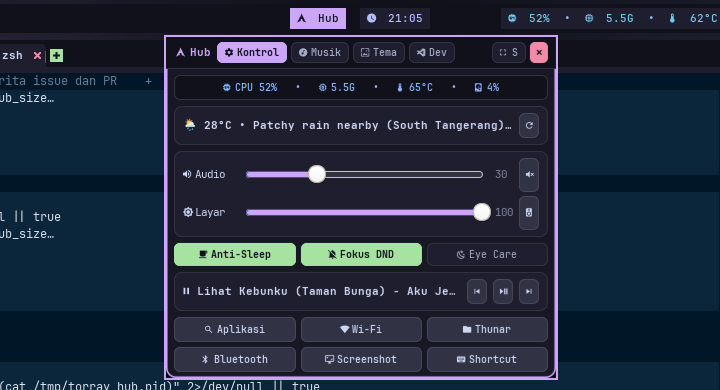
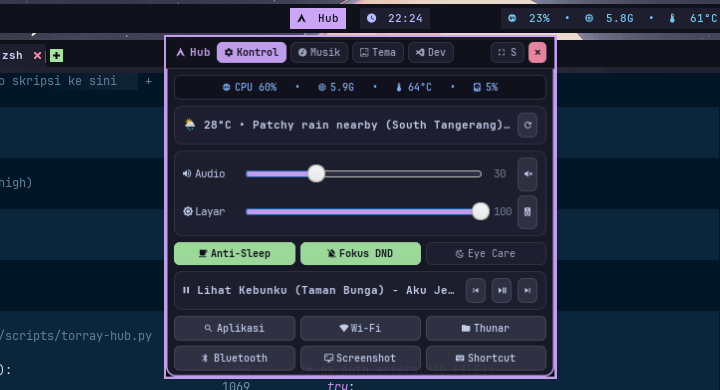
feat(theme+blur): add 6 global desktop themes, 12 curated HD wallpapers, and Picom dual-kawase frosted glass blur

diff --git a/polybar/.config/polybar/scripts/torray-hub.py b/polybar/.config/polybar/scripts/torray-hub.py
@@ -9,6 +9,7 @@
 # =============================================================================
 
 import glob
+import json
 import math
 import os
 import random
@@ -38,7 +39,7 @@ CURRENT_WALL_LINK = os.path.expanduser("~/.config/sway/wallpaper.png")
 
 CSS = b"""
 window {
-    background-color: #181825;
+    background-color: rgba(24, 24, 37, 0.90);
     color: #cdd6f4;
     border: 1.5px solid #cba6f7;
     border-radius: 10px;
@@ -47,7 +48,7 @@ window {
 }
 button {
     background-image: none;
-    background-color: #313244;
+    background-color: rgba(49, 50, 68, 0.88);
     color: #cdd6f4;
     border: 1px solid #45475a;
     border-radius: 6px;
@@ -58,7 +59,7 @@ button {
     min-width: 0;
 }
 .header-bar {
-    background-color: #11111b;
+    background-color: rgba(17, 17, 27, 0.92);
     padding: 5px 8px;
     border-bottom: 1px solid #313244;
 }
@@ -93,13 +94,13 @@ button {
     font-weight: bold;
 }
 .card {
-    background-color: #1e1e2e;
+    background-color: rgba(30, 30, 46, 0.88);
     border: 1px solid #313244;
     border-radius: 8px;
     padding: 6px 8px;
 }
 .telemetry-bar {
-    background-color: #11111b;
+    background-color: rgba(17, 17, 27, 0.88);
     border: 1px solid #313244;
     border-radius: 6px;
     padding: 4px 8px;
@@ -277,10 +278,16 @@ class TorrayHub(Gtk.Window):
         self.set_type_hint(Gdk.WindowTypeHint.DIALOG)
         self.set_position(Gtk.WindowPosition.CENTER)
 
-        provider = Gtk.CssProvider()
-        provider.load_from_data(CSS)
+        screen = self.get_screen()
+        visual = screen.get_rgba_visual()
+        if visual:
+            self.set_visual(visual)
+        self.set_app_paintable(True)
+
+        self.css_provider = Gtk.CssProvider()
+        self.apply_dynamic_css()
         Gtk.StyleContext.add_provider_for_screen(
-            Gdk.Screen.get_default(), provider, Gtk.STYLE_PROVIDER_PRIORITY_APPLICATION
+            Gdk.Screen.get_default(), self.css_provider, Gtk.STYLE_PROVIDER_PRIORITY_APPLICATION
         )
 
         self.connect("key-press-event", self.on_key_press)
@@ -374,6 +381,24 @@ class TorrayHub(Gtk.Window):
             self.move((1366 - w) // 2, 36)
         else:
             self.move((1366 - w) // 2, (768 - h) // 2)
+
+    def apply_dynamic_css(self, custom_accent=None):
+        accent = custom_accent or "#cba6f7"
+        if not custom_accent and os.path.exists("/tmp/torray_theme.json"):
+            try:
+                with open("/tmp/torray_theme.json") as tf:
+                    accent = json.load(tf).get("accent", "#cba6f7")
+            except Exception:
+                pass
+        themed_css = CSS.decode("utf-8").replace("#cba6f7", accent).encode("utf-8")
+        self.css_provider.load_from_data(themed_css)
+
+    def apply_desktop_theme(self, theme_id, accent_hex):
+        self.apply_dynamic_css(accent_hex)
+        subprocess.Popen(
+            f"~/.config/polybar/scripts/theme-engine.sh {theme_id}",
+            shell=True,
+        )
 
     # -------------------------------------------------------------------------
     # TAB 1: Compact Control Center, Live Telemetry & Smart Toggles
@@ -582,16 +607,47 @@ class TorrayHub(Gtk.Window):
         self.stack.add_named(box, "music")
 
     # -------------------------------------------------------------------------
-    # TAB 3: Wallpaper Studio + Live Window Gaps Tweaker
+    # TAB 3: Global Desktop Theme Engine + HD Wallpaper Studio + Gaps Tweaker
     # -------------------------------------------------------------------------
     def build_wall_tab(self):
-        box = Gtk.Box(orientation=Gtk.Orientation.VERTICAL, spacing=6)
-        box.set_margin_top(6)
-        box.set_margin_bottom(6)
+        box = Gtk.Box(orientation=Gtk.Orientation.VERTICAL, spacing=5)
+        box.set_margin_top(5)
+        box.set_margin_bottom(5)
         box.set_margin_start(8)
         box.set_margin_end(8)
 
-        # Top Tweaker Bar: Gaps + Random + File Picker
+        # 1. Global Desktop Color Themes (6 Presets)
+        theme_card = Gtk.Box(orientation=Gtk.Orientation.VERTICAL, spacing=4)
+        theme_card.get_style_context().add_class("card")
+
+        t_lbl = Gtk.Label(label=" Tema Desktop (Navbar + Border + Aksen + Wallpaper):")
+        t_lbl.get_style_context().add_class("song-artist")
+        t_lbl.set_xalign(0)
+        theme_card.pack_start(t_lbl, False, False, 0)
+
+        t_grid = Gtk.Grid()
+        t_grid.set_column_spacing(4)
+        t_grid.set_row_spacing(4)
+        t_grid.set_column_homogeneous(True)
+
+        themes = [
+            ("🟣 Mocha", "mocha", "#cba6f7"),
+            ("🔵 Tokyo", "tokyo", "#7aa2f7"),
+            ("🌸 Sakura", "sakura", "#f5c2e7"),
+            ("🟢 Emerald", "emerald", "#a6e3a1"),
+            ("🟠 Cosmos", "cosmos", "#fab387"),
+            ("🔴 Crimson", "crimson", "#f38ba8"),
+        ]
+        for idx, (label, tid, hex_col) in enumerate(themes):
+            tb = Gtk.Button(label=label)
+            tb.get_style_context().add_class("action-btn")
+            tb.connect("clicked", lambda _w, t=tid, c=hex_col: self.apply_desktop_theme(t, c))
+            t_grid.attach(tb, idx % 3, idx // 3, 1, 1)
+
+        theme_card.pack_start(t_grid, False, False, 0)
+        box.pack_start(theme_card, False, False, 0)
+
+        # 2. Top Tweaker Bar: Gaps + Random + File Picker
         top_bar = Gtk.Box(orientation=Gtk.Orientation.HORIZONTAL, spacing=4)
         gaps_lbl = Gtk.Label(label="Gaps:")
         gaps_lbl.get_style_context().add_class("song-artist")
@@ -615,18 +671,7 @@ class TorrayHub(Gtk.Window):
 
         box.pack_start(top_bar, False, False, 0)
 
-        # Window Floating & Size Presets Bar
-        win_bar = Gtk.Box(orientation=Gtk.Orientation.HORIZONTAL, spacing=4)
-        win_lbl = Gtk.Label(label="Mode App:")
-        win_lbl.get_style_context().add_class("song-artist")
-        win_bar.pack_start(win_lbl, False, False, 0)
-        for w_label, w_arg in [("S", "small"), ("M", "medium"), ("L", "large"), ("PiP", "pip"), ("Full", "toggle-max")]:
-            wb = Gtk.Button(label=w_label)
-            wb.get_style_context().add_class("action-btn")
-            wb.connect("clicked", lambda _w, a=w_arg: self.launch_and_close(f"~/.config/polybar/scripts/win-layout.sh {a}"))
-            win_bar.pack_start(wb, True, True, 0)
-        box.pack_start(win_bar, False, False, 0)
-
+        # 3. Curated HD Wallpapers Gallery
         scroll = Gtk.ScrolledWindow()
         scroll.set_policy(Gtk.PolicyType.NEVER, Gtk.PolicyType.AUTOMATIC)
         self.wall_grid = Gtk.Grid()
@@ -646,7 +691,7 @@ class TorrayHub(Gtk.Window):
         seen = set()
         for d in WALL_DIRS:
             if os.path.isdir(d):
-                for ext in ("*.png", "*.jpg", "*.jpeg", "*.webp"):
+                for ext in ("*.jpg", "*.png", "*.jpeg", "*.webp"):
                     for f in sorted(glob.glob(os.path.join(d, ext))):
                         base = os.path.basename(f)
                         if base not in seen:
@@ -655,13 +700,15 @@ class TorrayHub(Gtk.Window):
 
         for idx, fpath in enumerate(files[:12]):
             try:
-                pix = GdkPixbuf.Pixbuf.new_from_file_at_scale(fpath, 142, 72, False)
+                pix = GdkPixbuf.Pixbuf.new_from_file_at_scale(fpath, 152, 76, False)
                 img = Gtk.Image.new_from_pixbuf(pix)
                 btn = Gtk.Button()
                 btn.get_style_context().add_class("wall-btn")
-                vbox = Gtk.Box(orientation=Gtk.Orientation.VERTICAL, spacing=1)
+                vbox = Gtk.Box(orientation=Gtk.Orientation.VERTICAL, spacing=2)
                 vbox.pack_start(img, False, False, 0)
-                name_lbl = Gtk.Label(label=os.path.splitext(os.path.basename(fpath))[0][:18])
+                raw_name = os.path.splitext(os.path.basename(fpath))[0]
+                pretty_name = raw_name.replace("-", " ").title()[:22]
+                name_lbl = Gtk.Label(label=pretty_name)
                 name_lbl.get_style_context().add_class("song-artist")
                 vbox.pack_start(name_lbl, False, False, 0)
                 btn.add(vbox)
@@ -1028,9 +1075,21 @@ def main():
         try:
             with open(PID_FILE, "r") as f:
                 old_pid = int(f.read().strip())
+            # Check if process is actually running
+            os.kill(old_pid, 0)
+            # If running, toggle close it
             os.kill(old_pid, signal.SIGTERM)
-            os.remove(PID_FILE)
+            try:
+                os.remove(PID_FILE)
+            except Exception:
+                pass
             sys.exit(0)
+        except (ProcessLookupError, OSError):
+            # Stale PID file; clean it up and continue launching
+            try:
+                os.remove(PID_FILE)
+            except Exception:
+                pass
         except Exception:
             try:
                 os.remove(PID_FILE)

diff --git a/polybar/.config/polybar/scripts/torray-clip.py b/polybar/.config/polybar/scripts/torray-clip.py
@@ -32,7 +32,7 @@ MAX_ITEMS = 35
 
 CSS = b"""
 window {
-    background-color: #181825;
+    background-color: rgba(24, 24, 37, 0.90);
     color: #cdd6f4;
     border: 1.5px solid #cba6f7;
     border-radius: 10px;
@@ -41,7 +41,7 @@ window {
 }
 button {
     background-image: none;
-    background-color: #313244;
+    background-color: rgba(49, 50, 68, 0.88);
     color: #cdd6f4;
     border: 1px solid #45475a;
     border-radius: 6px;
@@ -58,7 +58,7 @@ button:hover {
     border-color: #cba6f7;
 }
 .header-bar {
-    background-color: #11111b;
+    background-color: rgba(17, 17, 27, 0.92);
     padding: 5px 8px;
     border-bottom: 1px solid #313244;
 }
@@ -69,7 +69,7 @@ button:hover {
 }
 .search-entry {
     background-image: none;
-    background-color: #1e1e2e;
+    background-color: rgba(30, 30, 46, 0.85);
     color: #cdd6f4;
     border: 1px solid #45475a;
     border-radius: 6px;
@@ -81,13 +81,13 @@ button:hover {
     border-color: #cba6f7;
 }
 .clip-card {
-    background-color: #1e1e2e;
+    background-color: rgba(30, 30, 46, 0.88);
     border: 1px solid #313244;
     border-radius: 8px;
     padding: 6px 8px;
 }
 .clip-card-pinned {
-    background-color: #1e1e2e;
+    background-color: rgba(30, 30, 46, 0.88);
     border: 1.5px solid #f9e2af;
     border-radius: 8px;
     padding: 6px 8px;
@@ -267,6 +267,12 @@ class ClipboardPopup(Gtk.Window):
         self.stick()
         self.set_type_hint(Gdk.WindowTypeHint.DIALOG)
         self.set_position(Gtk.WindowPosition.CENTER)
+
+        screen = self.get_screen()
+        visual = screen.get_rgba_visual()
+        if visual:
+            self.set_visual(visual)
+        self.set_app_paintable(True)
 
         provider = Gtk.CssProvider()
         provider.load_from_data(CSS)
@@ -493,9 +499,18 @@ def main():
         try:
             with open(POPUP_PID_FILE) as f:
                 old = int(f.read().strip())
+            os.kill(old, 0)
             os.kill(old, signal.SIGTERM)
-            os.remove(POPUP_PID_FILE)
+            try:
+                os.remove(POPUP_PID_FILE)
+            except Exception:
+                pass
             sys.exit(0)
+        except (ProcessLookupError, OSError):
+            try:
+                os.remove(POPUP_PID_FILE)
+            except Exception:
+                pass
         except Exception:
             try:
                 os.remove(POPUP_PID_FILE)

diff --git a/polybar/.config/polybar/scripts/workspaces.py b/polybar/.config/polybar/scripts/workspaces.py
@@ -78,6 +78,18 @@ def render_workspaces():
     ws_windows = collect_workspace_windows(tree)
     parts = []
 
+    active_bg = "#89b4fa"
+    inactive_bg = "#1e1e2e"
+    crust_bg = "#11111b"
+    try:
+        with open("/tmp/torray_theme.json") as tf:
+            tdata = json.load(tf)
+            active_bg = tdata.get("second", active_bg)
+            inactive_bg = tdata.get("base", inactive_bg)
+            crust_bg = tdata.get("crust", crust_bg)
+    except Exception:
+        pass
+
     for ws in workspaces:
         name = ws.get("name", "1")
         focused = ws.get("focused", False)
@@ -98,19 +110,19 @@ def render_workspaces():
         cmd_click = f"i3-msg -q workspace '{name}'"
         if focused:
             icon_str = ("  " + "  ".join(icons_active) + "  ") if icons_active else " "
-            pill = f"%{{B#89b4fa}}%{{F#11111b}} {name}{icon_str}%{{B-}}%{{F-}}"
+            pill = f"%{{B{active_bg}}}%{{F{crust_bg}}} {name}{icon_str}%{{B-}}%{{F-}}"
         elif urgent:
             icon_str = ("  " + "  ".join(icons_active) + "  ") if icons_active else " "
-            pill = f"%{{B#f38ba8}}%{{F#11111b}} {name}{icon_str}%{{B-}}%{{F-}}"
+            pill = f"%{{B#f38ba8}}%{{F{crust_bg}}} {name}{icon_str}%{{B-}}%{{F-}}"
         else:
             icon_str = ("  " + "  ".join(icons_inactive) + "  ") if icons_inactive else " "
-            pill = f"%{{B#1e1e2e}}%{{F#a6adc8}} {name}{icon_str}%{{B-}}%{{F-}}"
+            pill = f"%{{B{inactive_bg}}}%{{F#a6adc8}} {name}{icon_str}%{{B-}}%{{F-}}"
 
         parts.append(
             f"%{{A1:{cmd_click}:}}%{{A4:i3-msg -q workspace prev:}}%{{A5:i3-msg -q workspace next:}}{pill}%{{A}}%{{A}}%{{A}}"
         )
 
-    return "%{B#11111b} %{B-}".join(parts)
+    return f"%{{B{crust_bg}}} %{{B-}}".join(parts)
 
 
 def main():

diff --git a/README.md b/README.md
@@ -28,17 +28,17 @@ Custom **WezTerm** configuration with per-tab Catppuccin color badges, active pr
 ---
 
 ### 2. Centered `Torray Hub v2` (Native GTK3 Control Center)
-Accessible right from the center of the navbar (`[  Hub ]` or `Super + N` / `Super + P`), **Torray Hub v2** drops down at the top-center of your screen with **4 specialized tabs** and a dynamic **`[  S / M / L ]`** window size switcher:
+Accessible right from the center of the navbar (`[  Hub ]` or `Super + N` / `Super + P` / `Super + Shift + W`), **Torray Hub v2** drops down at the top-center of your screen with **4 specialized tabs** and a dynamic **`[  S / M / L ]`** window size switcher:
 
-| ` Control & Live Weather` (`Super + N`) | ` 28-Bar Audio Visualizer` (`Super + P`) |
-| :---: | :---: |
-| <img src="assets/torray-hub-dash.png" alt="Torray Hub Control & Weather Tab" width="100%" /> | <img src="assets/torray-hub-music.png" alt="Torray Hub 28-Bar Music Visualizer" width="100%" /> |
-| **Pure-Python Telemetry** (`CPU / RAM / Temp / Disk`), **Live Local Weather (`wttr.in`)**, **Volume & Brightness Sliders**, and **Smart Toggles** (`Anti-Sleep`, `DND Focus`, `Eye Care`). | **60 FPS Cairo Spectrum Equalizer** with **3 color themes** (`🌈 Cyber`, `🟣 Mauve`, `🟢 Matrix`) and full MPRIS media controls. |
+| ` Control & Live Weather` (`Super + N`) | ` 28-Bar Audio Visualizer` (`Super + P`) | ` 6 Themes & HD Wallpapers` (`Super + Shift + W`) |
+| :---: | :---: | :---: |
+| <img src="assets/torray-hub-dash.png" alt="Torray Hub Control & Weather Tab" width="100%" /> | <img src="assets/torray-hub-music.png" alt="Torray Hub 28-Bar Music Visualizer" width="100%" /> | <img src="assets/torray-hub-theme.png" alt="Torray Hub Themes & Wallpapers Tab" width="100%" /> |
+| **Pure-Python Telemetry** (`CPU / RAM / Temp / Disk`), **Live Local Weather (`wttr.in`)**, **Volume & Brightness Sliders**, and **Smart Toggles** (`Anti-Sleep`, `DND Focus`, `Eye Care`). | **60 FPS Cairo Spectrum Equalizer** with **3 color themes** (`🌈 Cyber`, `🟣 Mauve`, `🟢 Matrix`) and full MPRIS media controls. | **6 Desktop Presets** (`Mocha`, `Tokyo`, `Sakura`, `Emerald`, `Cosmos`, `Crimson`), **12 Curated HD Wallpapers**, and **Live Window Gaps Tweaker** (`0px / 4px / 10px`). |
 
 ---
 
 ### 3. `Torray Clip` — Windows 11-Style Visual Clipboard (`Super + V`)
-An event-driven GTK3 clipboard manager that captures **both copied text snippets AND screenshots/images** with visual thumbnails, instant search filtering, item pinning (``), one-click auto-paste (``), and resizable `S / M / L` presets:
+An event-driven GTK3 clipboard manager with RGBA visual transparency and Picom blur that captures **both copied text snippets AND screenshots/images** with visual thumbnails, instant search filtering, item pinning (``), one-click auto-paste (``), and resizable `S / M / L` presets:
 
 <div align="center">
   <img src="assets/clipboard-preview.png" alt="Torray Clip Super+V Visual Clipboard" width="58%" />
@@ -47,6 +47,13 @@ An event-driven GTK3 clipboard manager that captures **both copied text snippets
 ---
 
 ## ✨ Key Architecture & Performance Highlights
+
+- **Frosted Glass Blur & Translucency (`Picom v13 Dual-Kawase`)**:
+  - **GPU-Accelerated Blur**: Enabled `dual_kawase` blur (strength 5) with zero frame tearing on Intel Haswell iGPU.
+  - **Translucent Elements**: Polybar navbar (`#cc11111b` dock with `#e61e1e2e` floating pills), WezTerm (`90%` opacity), Torray Hub (`rgba(24, 24, 37, 0.90)`), Torray Clip, and Rofi menus all receive smooth frosted glass backdrop blur.
+- **Global Desktop Theme Engine (`theme-engine.sh`)**:
+  - Switch entire system themes on-the-fly (`🟣 Mocha`, `🔵 Tokyo Cyber`, `🌸 Sakura Sunset`, `🟢 Emerald Matrix`, `🟠 Cosmos Gold`, `🔴 Crimson Abyss`).
+  - Instantly synchronizes Polybar bar colors, i3 window borders, Rofi palettes, GTK3 plugin accents, and matches curated high-resolution wallpapers.
 
 - **Proportional Inset-Pill Navbar (`Polybar` & `Waybar`)**:
   - **Live App Logos inside Workspaces (`workspaces.py`)**: Subscribes directly to the i3/Sway IPC socket (`0.0% idle CPU`) and renders live Nerd Font icons (`` WezTerm, `` VS Code, `` Firefox, `` Thunar, `` Neovim, `` btop) inside each workspace pill.
